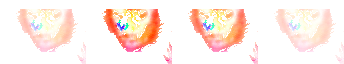
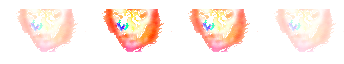
Mask observed Mage source cursor and register dark sigil captures

diff --git a/tools/import_mage_skill_references.py b/tools/import_mage_skill_references.py
@@ -12,6 +12,7 @@ def project(root, output, manifest):
     def bind(name,article,indices,region,pivot,color,blocked=None,anchor='RECIPIENT',scale=1.):
         rows.append(dict(id=cat[name],name=name,articleId=article,indices=list(indices),region=region,pivot=pivot,
                          color=color,blocked=blocked or [],anchor=anchor,scale=scale))
+        if name=='프라보':rows[-1]['uiMasks']=[[82,73,100,100]]
     groups=[('COLD',[3,4,5],['마레노','마레누스','마레네라']),('NEUTRAL',[9,10,11],['테라미코','테라미쿠스','테라미에라']),
             ('COLD',[15,16,17],['아듀로','아듀로스','아듀레나']),('WARM',[21,22,23],['플라모','플라무스','플라메라'])]
     for color,indices,names in groups:
@@ -46,6 +47,21 @@ def project(root, output, manifest):
                         for dy in range(-4,5) for dx in range(-4,5)]
             _,dx,dy=min(candidates);base=np.roll(circle_base,(dy,dx),(0,1))
             row['mattingPlate']=dict(path=lookup[221564,21]['path'],sha256=lookup[221564,21]['sha256'],dx=dx,dy=dy)
+        if row['color']=='DARK_DIFFERENCE':
+            # These six captures pan the camera. Register on exposed floor,
+            # outside the sigil and actors, before recovering its background.
+            floor=np.zeros(frames[0].shape[:2],dtype=bool)
+            floor[155:185,30:100]=True;floor[30:60,80:105]=True
+            registered=[];offsets=[]
+            for frame in frames:
+                fits=[(float(np.median(np.abs(frame[floor]-np.roll(frames[0],(dy,dx),(0,1))[floor]))),dx,dy)
+                      for dy in range(-12,13) for dx in range(-12,13)]
+                _,dx,dy=min(fits);registered.append(np.roll(frame,(-dy,-dx),(0,1)))
+                offsets.append(dict(dx=-dx,dy=-dy))
+            frames=registered;base=np.maximum.reduce(frames)
+            row['frameRegistration']=offsets
+            row['mattingMethod']='REGISTERED_CAPTURE_MAX_REVEALED_FLOOR'
+
         x0,y0,x1,y1=row['region'];w=x1-x0;h=y1-y0;tiles=[];counts=[]
         for rgb in frames:
             r,g,b=rgb[:,:,0],rgb[:,:,1],rgb[:,:,2];lo=np.min(rgb,axis=2);hi=np.max(rgb,axis=2)
@@ -59,13 +75,17 @@ def project(root, output, manifest):
             elif color=='RED':mask=((r>175)&(r>g*1.35)&(r>b*1.2))|white
             elif color=='BRIGHT':mask=(hi>190)&((hi-lo>35)|white)
             elif color=='ROCK':mask=changed&(r>g*.9)&(r>b*1.25)&(g>25)
-            elif color=='DARK_DIFFERENCE':mask=(hi<90)&(hi-lo<18)
+            elif color=='DARK_DIFFERENCE':
+                # Only observed darkening against the revealed floor is ink.
+                # Unchanged dark floor diamonds are not spell pixels.
+                mask=((hi<90)&(hi-lo<6)&(np.max(base-rgb,axis=2)>20))|((r>g*2)&(r>b*1.8)&(r>100)&(g<60)&(b<80)&changed)
             else:mask=changed
             if color=='DIFFERENCE':mask&=(np.max(np.abs(diff),axis=2)>40)
             valid=np.zeros_like(mask);valid[y0:y1,x0:x1]=True;mask&=valid
             for bx0,by0,bx1,by1 in row['blocked']:
                 allowed=((lo>150)&(np.max(diff,axis=2)>25))|(np.min(diff,axis=2)>25)|((lo>110)&(np.max(diff,axis=2)>50))
                 mask[by0:by1,bx0:bx1]&=allowed[by0:by1,bx0:bx1]
+            for bx0,by0,bx1,by1 in row.get('uiMasks',[]):mask[by0:by1,bx0:bx1]=False
             if row['articleId'] in [221564,221555]:mask[:41,:]=False
             if color in ['DIFFERENCE','DARK_DIFFERENCE','ROCK']:fg=rgb;alpha=mask.astype(np.float32)
             else:

diff --git a/app/src/test/java/com/projectdark/mobile/ClassicSkillReferenceTest.java b/app/src/test/java/com/projectdark/mobile/ClassicSkillReferenceTest.java
@@ -39,6 +39,14 @@ public class ClassicSkillReferenceTest {
    assertEquals(0,s.frame(0));assertEquals(s.durations.length-1,s.frame(s.duration));assertTrue("No opaque floor corner: "+id,Color.alpha(s.atlas.getPixel(s.width-1,s.height-1))<32);assertTrue(s.duration>0);
   }assertEquals(143,channels);
  }
+ @Test public void mageSourceMasksExcludeObservedCursorAndUnchangedFloor()throws Exception{
+  ClassicSkillReference reference=new ClassicSkillReference(c);
+  CapturedSkillFx.Sequence pravo=reference.channel("SK_마법사_053",false).sequence;
+  for(int frame=0;frame<pravo.durations.length;frame++)for(int y=41;y<64;y++)for(int x=74;x<86;x++)
+   assertEquals("Observed cursor must not enter any held frame",0,Color.alpha(pravo.atlas.getPixel(frame*pravo.width+x,y)));
+  CapturedSkillFx.Sequence mark=reference.channel("SK_마법사_046",false).sequence;
+  assertEquals("Brown floor corner is not dark sigil ink",0,Color.alpha(mark.atlas.getPixel(mark.width-1,mark.height-1)));
+ }
  @Test public void productionInputSeparatesCasterAndRecipientChannelsAndNeverHealsEnemies()throws Exception{
   ClassicSkillReference reference=new ClassicSkillReference(c);
   for(String id:reference.effects.keySet()){

diff --git a/docs/CHAT_HANDOFF.md b/docs/CHAT_HANDOFF.md
@@ -392,3 +392,7 @@ Local implementation commit `a97fc44108acb6ad053a5b873c5a907a31b37fce` exists. `
 ### V78 publication approval — 2026-10-01
 
 User explicitly approved the scoped public-repository code and derived-effect update with “응 반영해”. Earlier automatic rejection is historical; publication is authorized. Proceed with non-force PR176 branch push and exact-SHA CI/native artifact verification. Physical-device acceptance remains pending.
+
+### V78 exact-SHA CI correction — 2026-10-01
+
+Published a044091131dedb071d3883029975f656d5de09f8 through the authorized GitHub connector; tree exactly equals local reviewed tree c65227a18c69a34d628c46e3ab320241e011811b. Actions 36867772666 passed source regeneration/audits and production route/input tests, but one classic corner-alpha test failed for Pravo. Source inspection found a captured mouse cursor; removed it with a recorded UI mask. Further pixel audit found Dark Mark floor contamination: registered six panned captures against exposed floor, excluded brown/blue floor hues and retained only supported dark/red ink. Timing, pivots and original source bytes are preserved; occluded/unrecoverable pixels remain absent. Added regression for cursor area and observed floor corner. Rebuild/native review pending; physical-device acceptance pending.

diff --git a/docs/DIRECTOR_BACKLOG.md b/docs/DIRECTOR_BACKLOG.md
@@ -439,3 +439,7 @@ Local implementation commit `a97fc44108acb6ad053a5b873c5a907a31b37fce` exists. `
 ### V78 publication approval — 2026-10-01
 
 User explicitly approved the scoped public-repository code and derived-effect update with “응 반영해”. Earlier automatic rejection is historical; publication is authorized. Proceed with non-force PR176 branch push and exact-SHA CI/native artifact verification. Physical-device acceptance remains pending.
+
+### V78 exact-SHA CI correction — 2026-10-01
+
+Published a044091131dedb071d3883029975f656d5de09f8 through the authorized GitHub connector; tree exactly equals local reviewed tree c65227a18c69a34d628c46e3ab320241e011811b. Actions 36867772666 passed source regeneration/audits and production route/input tests, but one classic corner-alpha test failed for Pravo. Source inspection found a captured mouse cursor; removed it with a recorded UI mask. Further pixel audit found Dark Mark floor contamination: registered six panned captures against exposed floor, excluded brown/blue floor hues and retained only supported dark/red ink. Timing, pivots and original source bytes are preserved; occluded/unrecoverable pixels remain absent. Added regression for cursor area and observed floor corner. Rebuild/native review pending; physical-device acceptance pending.

diff --git a/docs/PROJECT_STATE.md b/docs/PROJECT_STATE.md
@@ -519,3 +519,7 @@ Local implementation commit `a97fc44108acb6ad053a5b873c5a907a31b37fce` exists. `
 ### V78 publication approval — 2026-10-01
 
 User explicitly approved the scoped public-repository code and derived-effect update with “응 반영해”. Earlier automatic rejection is historical; publication is authorized. Proceed with non-force PR176 branch push and exact-SHA CI/native artifact verification. Physical-device acceptance remains pending.
+
+### V78 exact-SHA CI correction — 2026-10-01
+
+Published a044091131dedb071d3883029975f656d5de09f8 through the authorized GitHub connector; tree exactly equals local reviewed tree c65227a18c69a34d628c46e3ab320241e011811b. Actions 36867772666 passed source regeneration/audits and production route/input tests, but one classic corner-alpha test failed for Pravo. Source inspection found a captured mouse cursor; removed it with a recorded UI mask. Further pixel audit found Dark Mark floor contamination: registered six panned captures against exposed floor, excluded brown/blue floor hues and retained only supported dark/red ink. Timing, pivots and original source bytes are preserved; occluded/unrecoverable pixels remain absent. Added regression for cursor area and observed floor corner. Rebuild/native review pending; physical-device acceptance pending.
